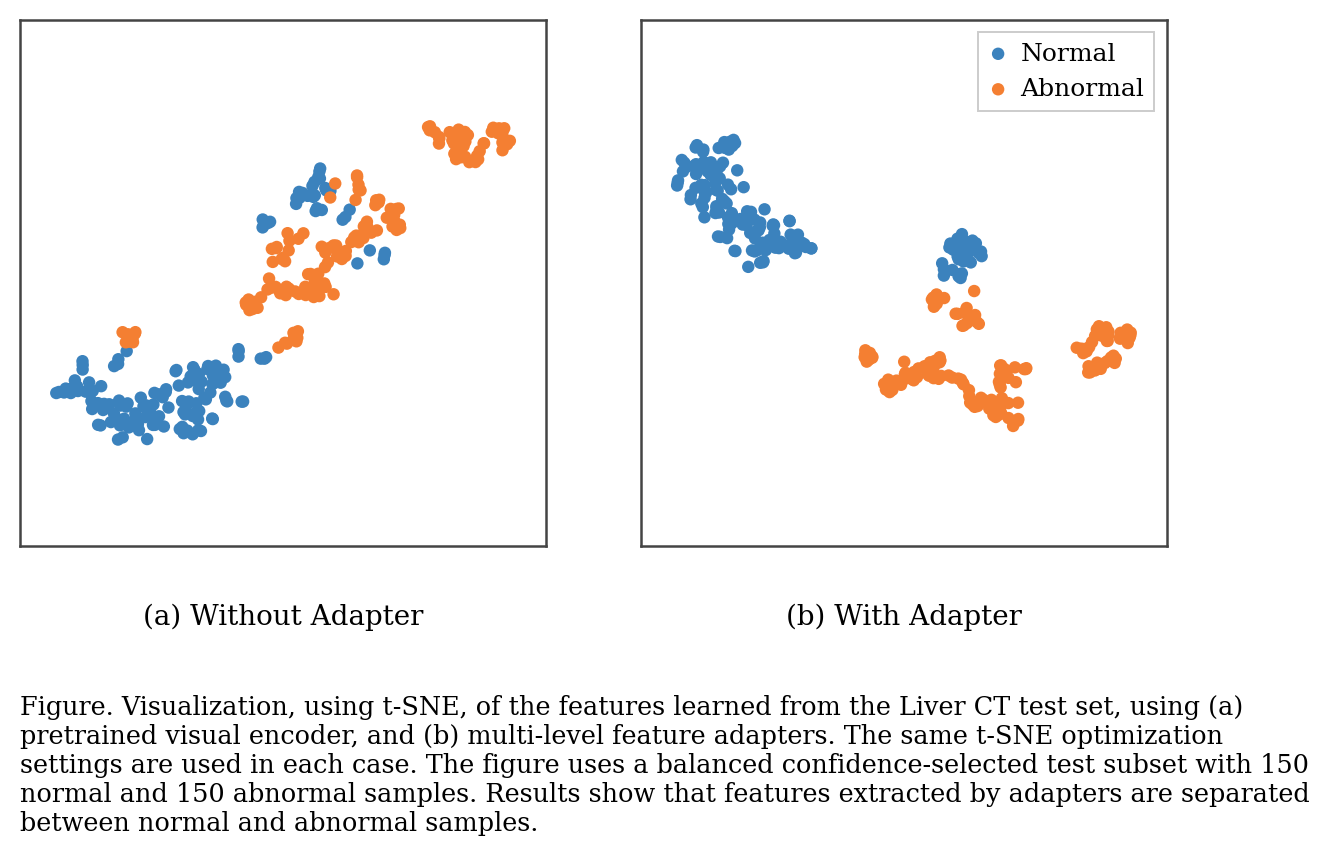
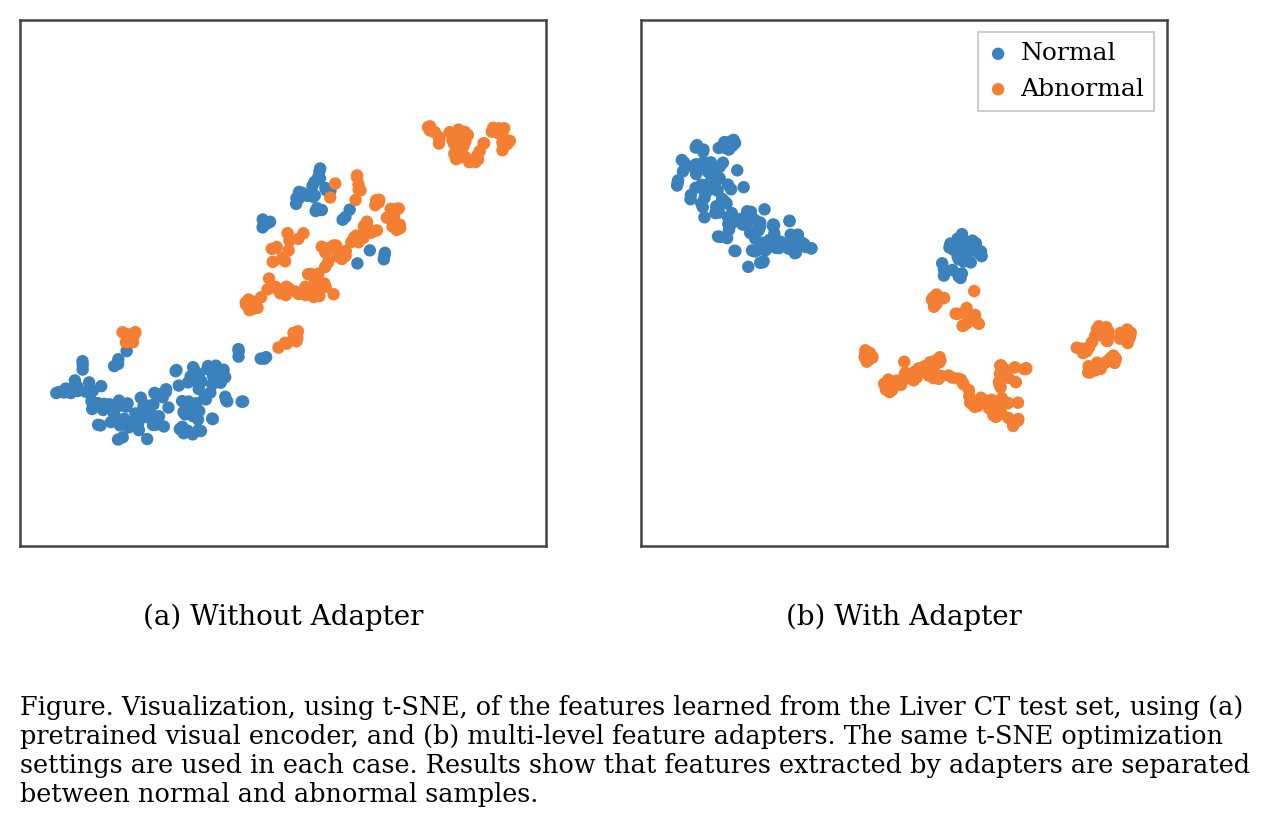
Align Liver t-SNE caption with paper style

diff --git a/tsne_zero.py b/tsne_zero.py
@@ -309,16 +309,10 @@ def create_comparison_figure(
             legend.get_frame().set_linewidth(0.7)
 
     display_name = dataset_display_name(args.obj)
-    subset_desc = (
-        f"balanced {selection_mode}-selected {args.split} subset"
-        if selection_mode == "confidence"
-        else f"balanced random {args.split} subset"
-    )
     caption = (
         f"Figure. Visualization, using t-SNE, of the features learned from the {display_name} {args.split} set, "
         f"using (a) pretrained visual encoder, and (b) multi-level feature adapters. "
         f"The same t-SNE optimization settings are used in each case. "
-        f"The figure uses a {subset_desc} with {normal_count} normal and {abnormal_count} abnormal samples. "
         f"Results show that features extracted by adapters are separated between normal and abnormal samples."
     )
     caption_axis.text(

diff --git a/README.md b/README.md
@@ -190,11 +190,11 @@ Each panel shows the original image, heatmap, thresholded prediction mask, and g
 
 ## Feature Distribution
 
-Liver feature separation before and after applying the localization adapter:
+Visualization, using t-SNE, of the features learned from the Liver CT test set, using (a) pretrained visual encoder, and (b) multi-level feature adapters.
 
 ![Liver feature t-SNE comparison](images/liver_tsne_paper.png)
 
-The figure uses a balanced, confidence-selected Liver test subset to highlight representative normal and abnormal samples. The left panel uses pretrained visual encoder features, while the right panel uses the adapted pooled features after multi-level localization adapters. Among the current three targets, Liver shows the clearest normal/abnormal separation.
+The same t-SNE optimization settings are used in each case. Results show that features extracted by adapters are separated between normal and abnormal samples.
 
 ## Generate Visualizations
 
